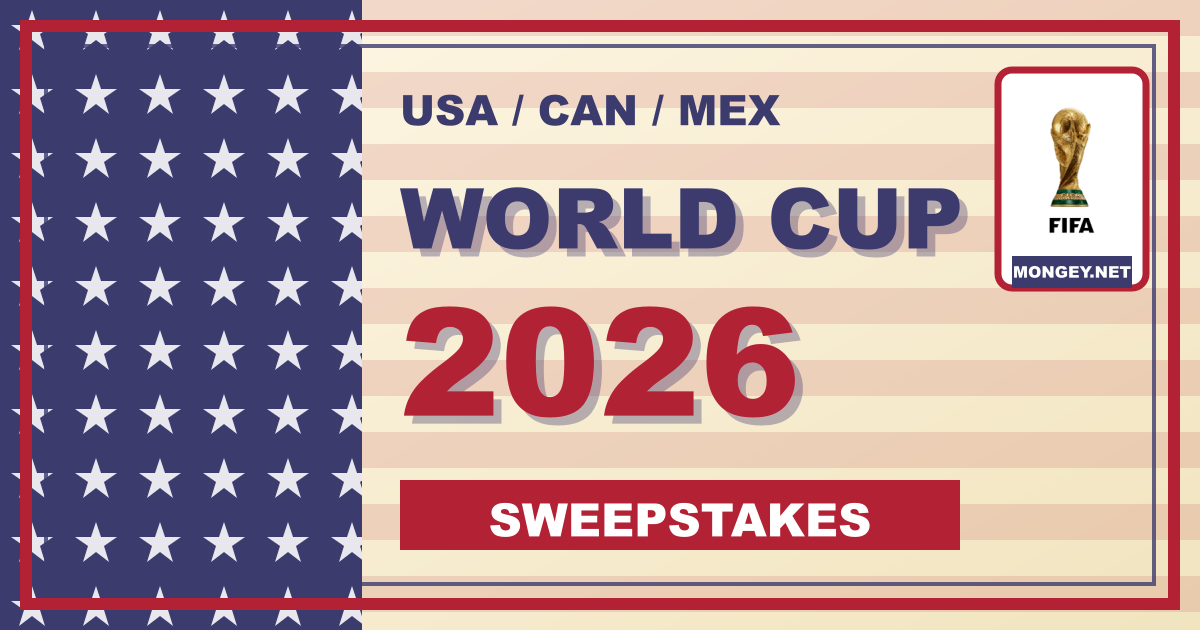
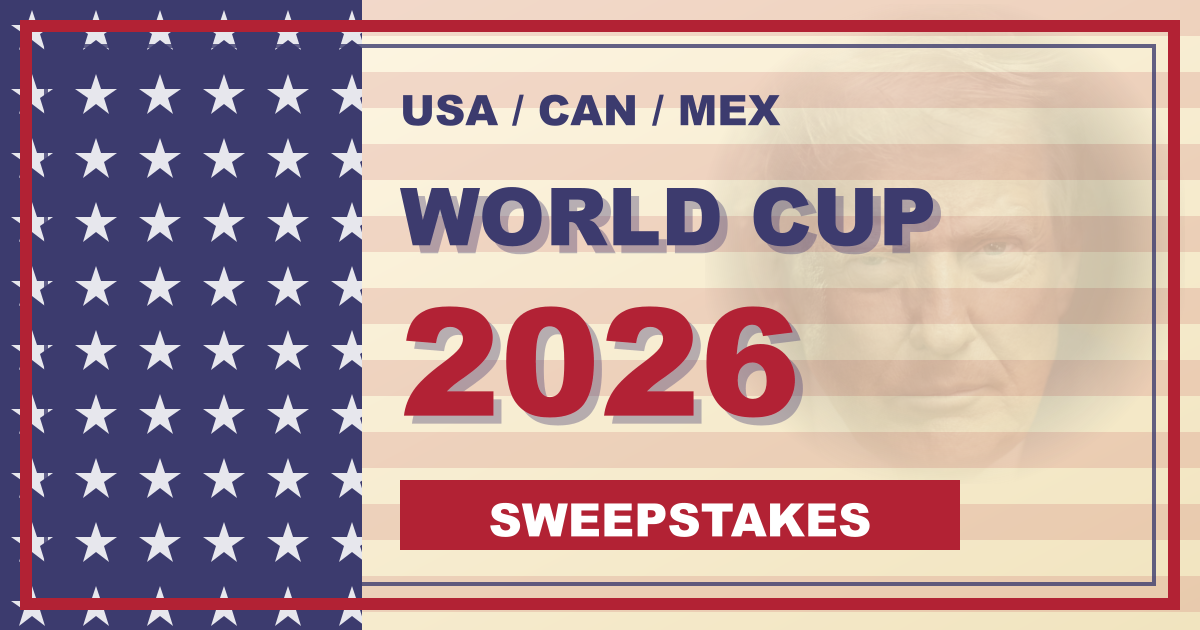
Tweak header bunting, shrink standings flags, add Trump bg
- Thicker (8px) bunting stripes and taller (h-5/h-6) bunting bars so
  the red/white alternation actually reads at viewing distance.
- Standings flags drop to h-3/h-4 with tighter gaps so all six fit on
  one line per player.
- Header gains a Trump portrait crop ghosted into the right side and
  an OG/Twitter share card to match.

Changed region(s): [[0.3392, 0.0905, 0.9558, 0.6937]]

diff --git a/src/components/Header.tsx b/src/components/Header.tsx
@@ -17,13 +17,25 @@ export function Header({ fetchedAt }: Props) {
   return (
     <header className="relative">
       {/* Top bunting strip */}
-      <div aria-hidden className="h-3 sm:h-4 bunting" />
+      <div aria-hidden className="h-5 sm:h-6 bunting" />
 
-      <div className="relative bg-usa-cream dark:bg-usa-navy-night border-y-4 border-usa-red">
+      <div className="relative overflow-hidden bg-usa-cream dark:bg-usa-navy-night border-y-4 border-usa-red">
         {/* Navy star-field canton on the left, visible on wider viewports */}
         <div
           aria-hidden
           className="hidden sm:block absolute left-0 top-0 bottom-0 w-24 star-field"
+        />
+        <img
+          aria-hidden
+          alt=""
+          src="/assets/donald-trump-share-crop.png"
+          className="pointer-events-none absolute inset-y-0 right-0 h-full w-40 object-cover opacity-20 mix-blend-multiply sm:w-56 dark:opacity-10 dark:mix-blend-screen"
+          style={{
+            maskImage:
+              "linear-gradient(to left, rgba(0,0,0,0.95), rgba(0,0,0,0.55) 58%, transparent)",
+            WebkitMaskImage:
+              "linear-gradient(to left, rgba(0,0,0,0.95), rgba(0,0,0,0.55) 58%, transparent)",
+          }}
         />
 
         <div className="relative max-w-3xl mx-auto px-4 sm:px-28 py-4 sm:py-5 flex items-center justify-center gap-4">
@@ -62,8 +74,7 @@ export function Header({ fetchedAt }: Props) {
       </div>
 
       {/* Bottom bunting strip */}
-      <div aria-hidden className="h-3 sm:h-4 bunting" />
+      <div aria-hidden className="h-5 sm:h-6 bunting" />
     </header>
   );
 }
-

diff --git a/index.html b/index.html
@@ -26,7 +26,7 @@
     <meta property="og:image:height" content="630" />
     <meta
       property="og:image:alt"
-      content="World Cup 2026 Sweepstakes preview card in red, white, and blue."
+      content="World Cup 2026 Sweepstakes preview card with a low-opacity Donald Trump portrait background."
     />
 
     <meta name="twitter:card" content="summary_large_image" />
@@ -38,7 +38,7 @@
     <meta name="twitter:image" content="https://worldcup.mongey.net/share-card.png" />
     <meta
       name="twitter:image:alt"
-      content="World Cup 2026 Sweepstakes preview card in red, white, and blue."
+      content="World Cup 2026 Sweepstakes preview card with a low-opacity Donald Trump portrait background."
     />
 
     <link rel="canonical" href="https://worldcup.mongey.net/" />

diff --git a/src/components/StandingsTable.tsx b/src/components/StandingsTable.tsx
@@ -90,12 +90,12 @@ export function StandingsTable({ rows }: Props) {
 
                 {/* Flags */}
                 <td className="px-1 sm:px-2 py-3">
-                  <div className="flex flex-wrap items-center gap-1 sm:gap-1.5">
+                  <div className="flex items-center gap-0.5 sm:gap-1">
                     {row.teams.map((t) => (
                       <Flag
                         key={t.code}
                         code={t.code}
-                        className={`h-4 sm:h-6 w-auto ${
+                        className={`h-3 sm:h-4 w-auto ${
                           t.isLive ? "ring-2 ring-usa-red animate-siren" : ""
                         }`}
                       />

diff --git a/src/index.css b/src/index.css
@@ -34,9 +34,9 @@
     background-image: repeating-linear-gradient(
       to bottom,
       #B22234 0,
-      #B22234 5px,
-      #FFFFFF 5px,
-      #FFFFFF 10px
+      #B22234 8px,
+      #FFFFFF 8px,
+      #FFFFFF 16px
     );
   }
 
@@ -45,9 +45,9 @@
     background-image: repeating-linear-gradient(
       to right,
       #B22234 0,
-      #B22234 5px,
-      #FFFFFF 5px,
-      #FFFFFF 10px
+      #B22234 8px,
+      #FFFFFF 8px,
+      #FFFFFF 16px
     );
   }
 
